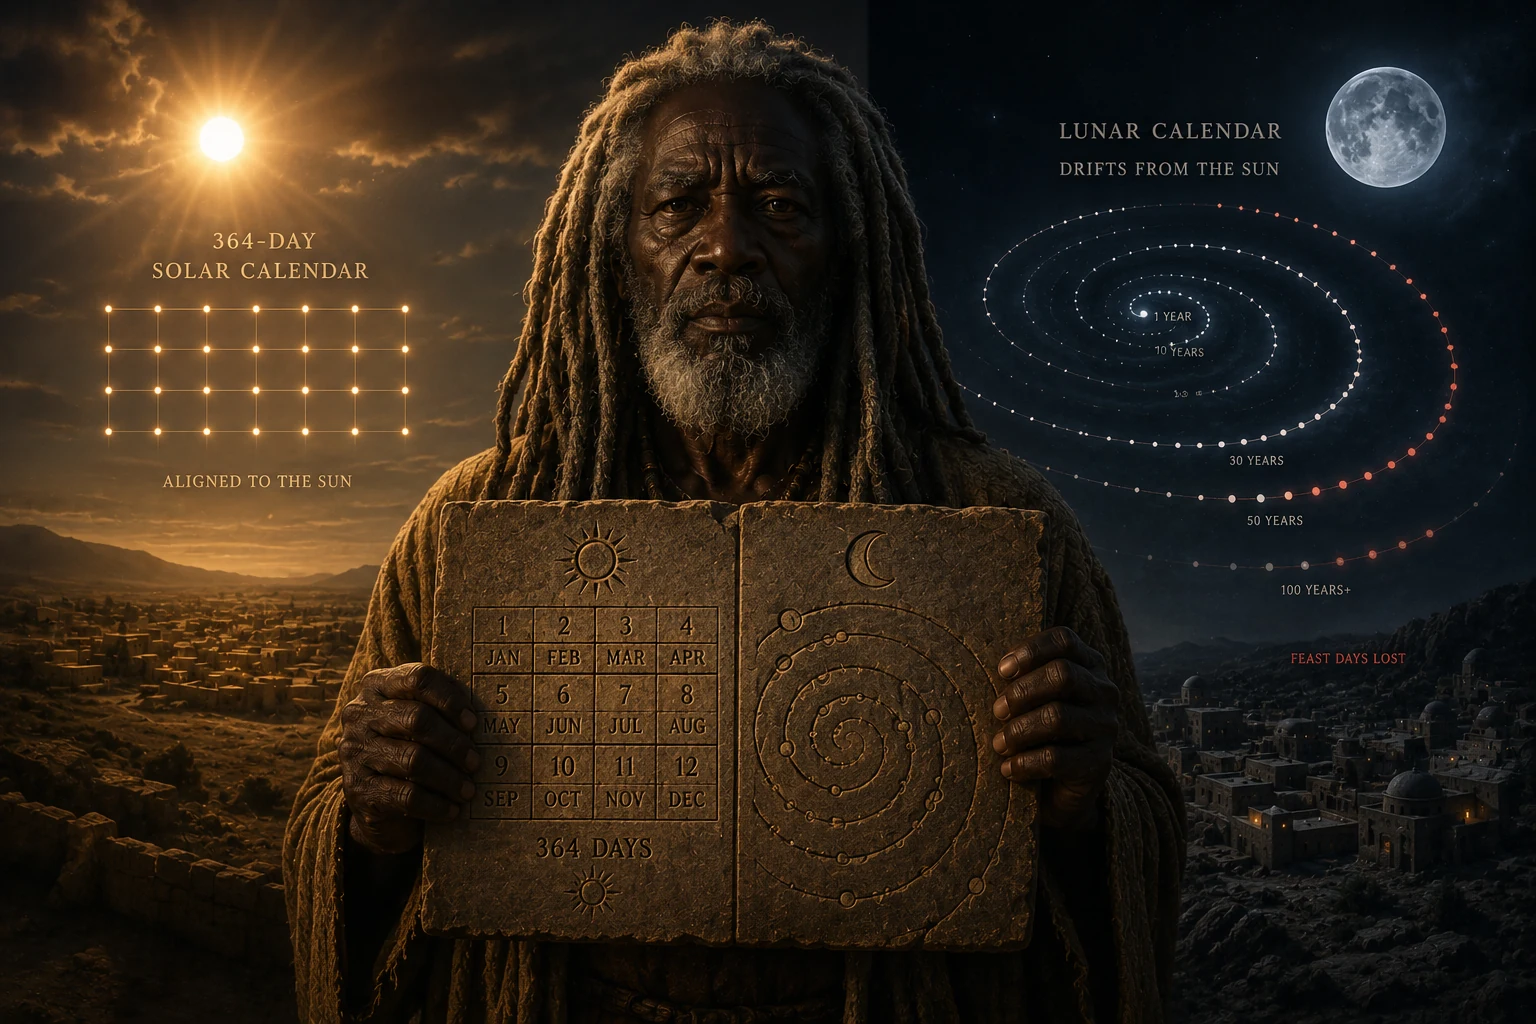
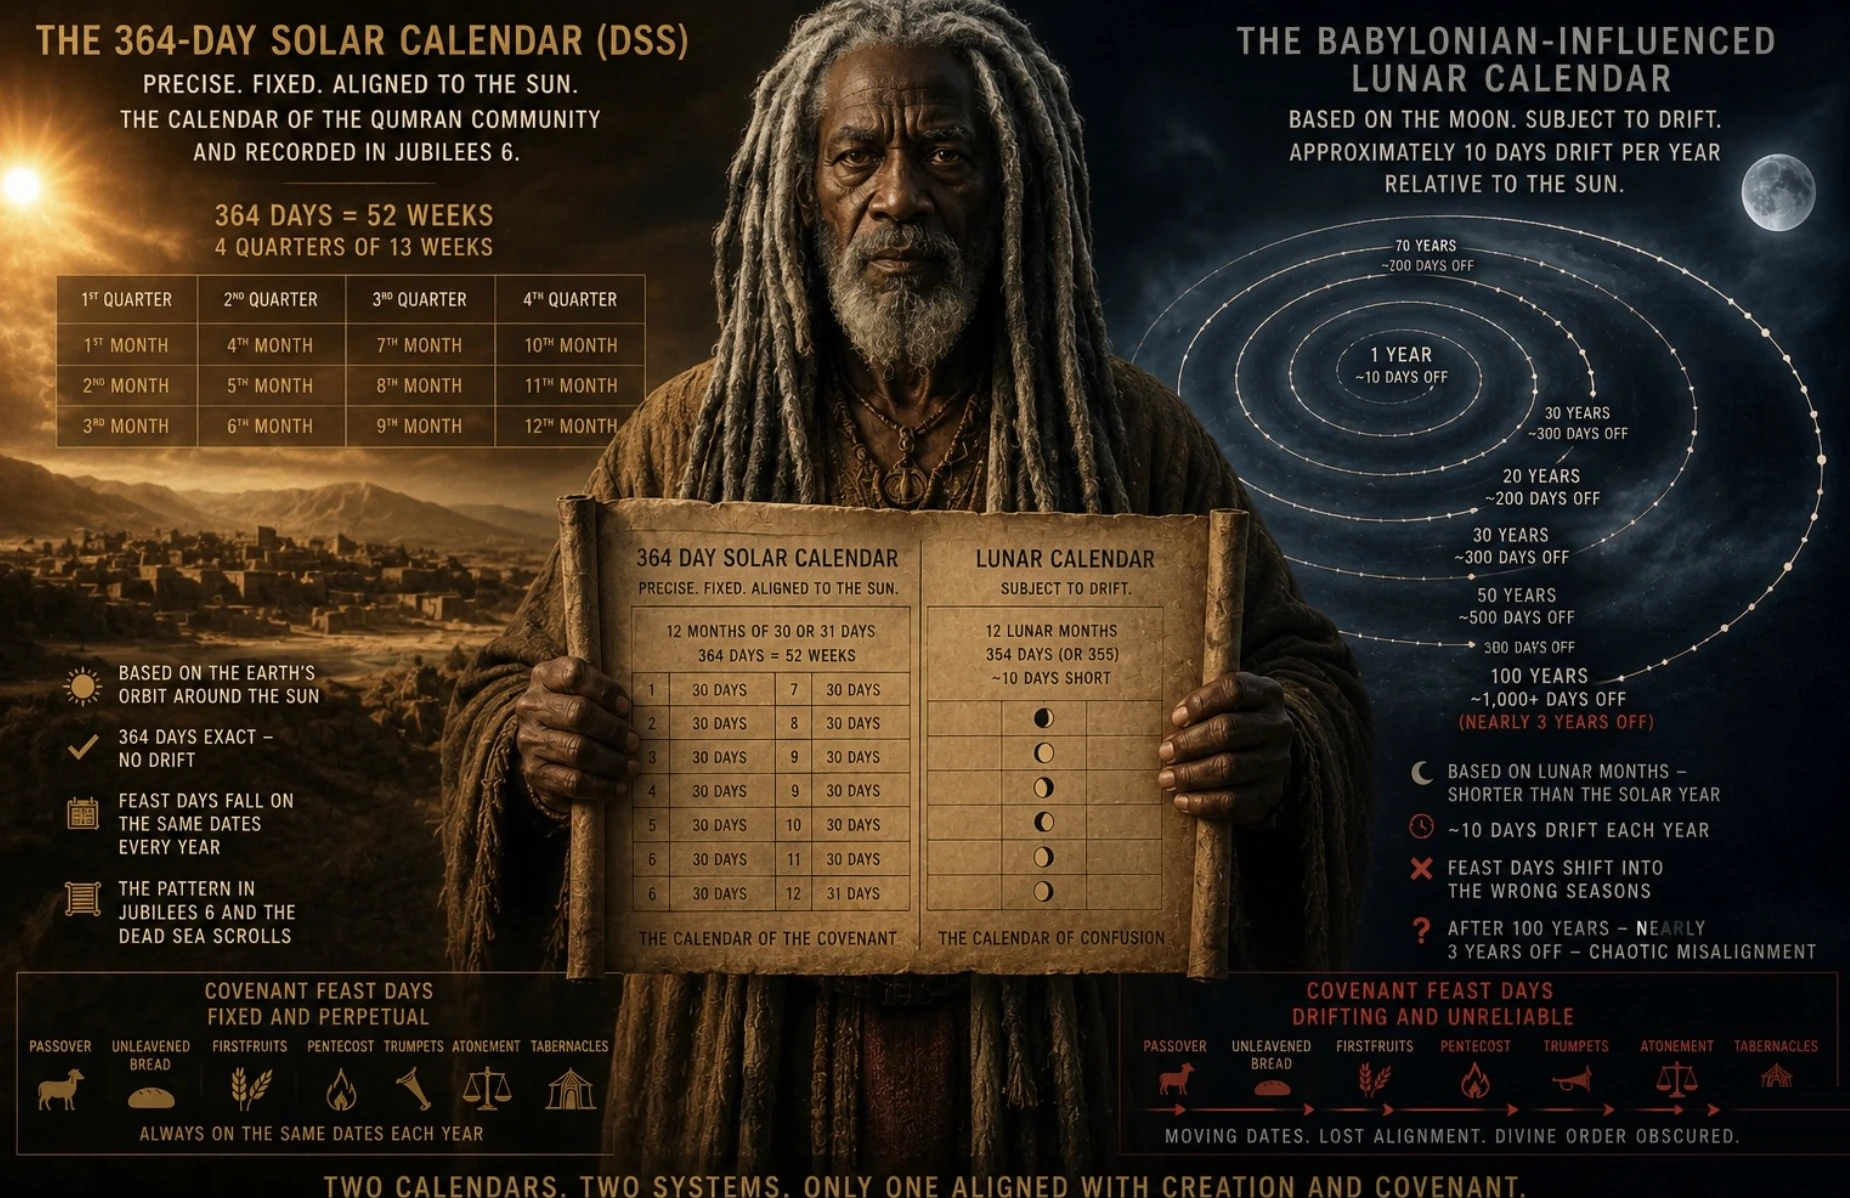
Search: replace solar-lunar-calendar image with fuller-text version (acr-search-v129)
Swap the Pagan Calendar section's solar-vs-lunar image for the fuller-text version
(same elder-with-scroll composition, now with the complete 364-day quarters table,
lunar-drift breakdown, and feast-day comparison). Same filename, so the existing
acrImg('solar-lunar-calendar') reference in the Paganism panel is unchanged.

Image processing (per the saved workflow): removed the baked-in Matthew (NT) proof-text
line from the bottom per Rule 13/14 (only DSS/Orit/Torah as authority); removed the iOS
screenshot scan button from the corner (per-row background match, no residual); cropped
the white border baked into the original screenshot's top and left edges. Compressed to
WebP q90; legibility verified on the compressed file.

Cache acr-search-v128 -> v129.

Claude-Session: https://claude.ai/code/session_01U5G2FGc6hBBAdkG2DYBjdW

diff --git a/Search/sw.js b/Search/sw.js
@@ -1,4 +1,4 @@
-var CACHE = 'acr-search-v128';
+var CACHE = 'acr-search-v129';
 var FILES = [
   './',
   './index.html',
